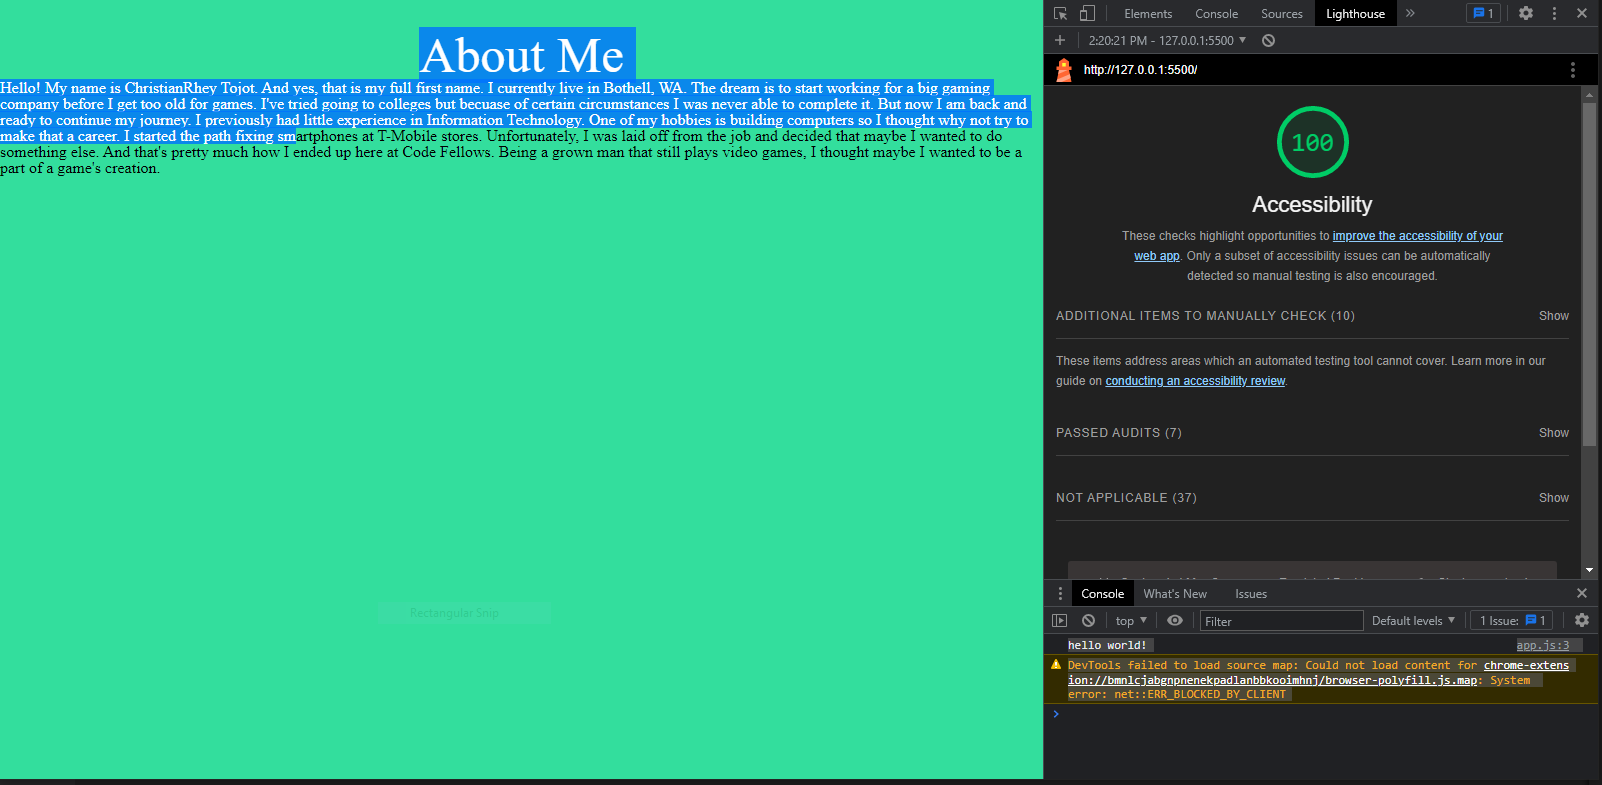
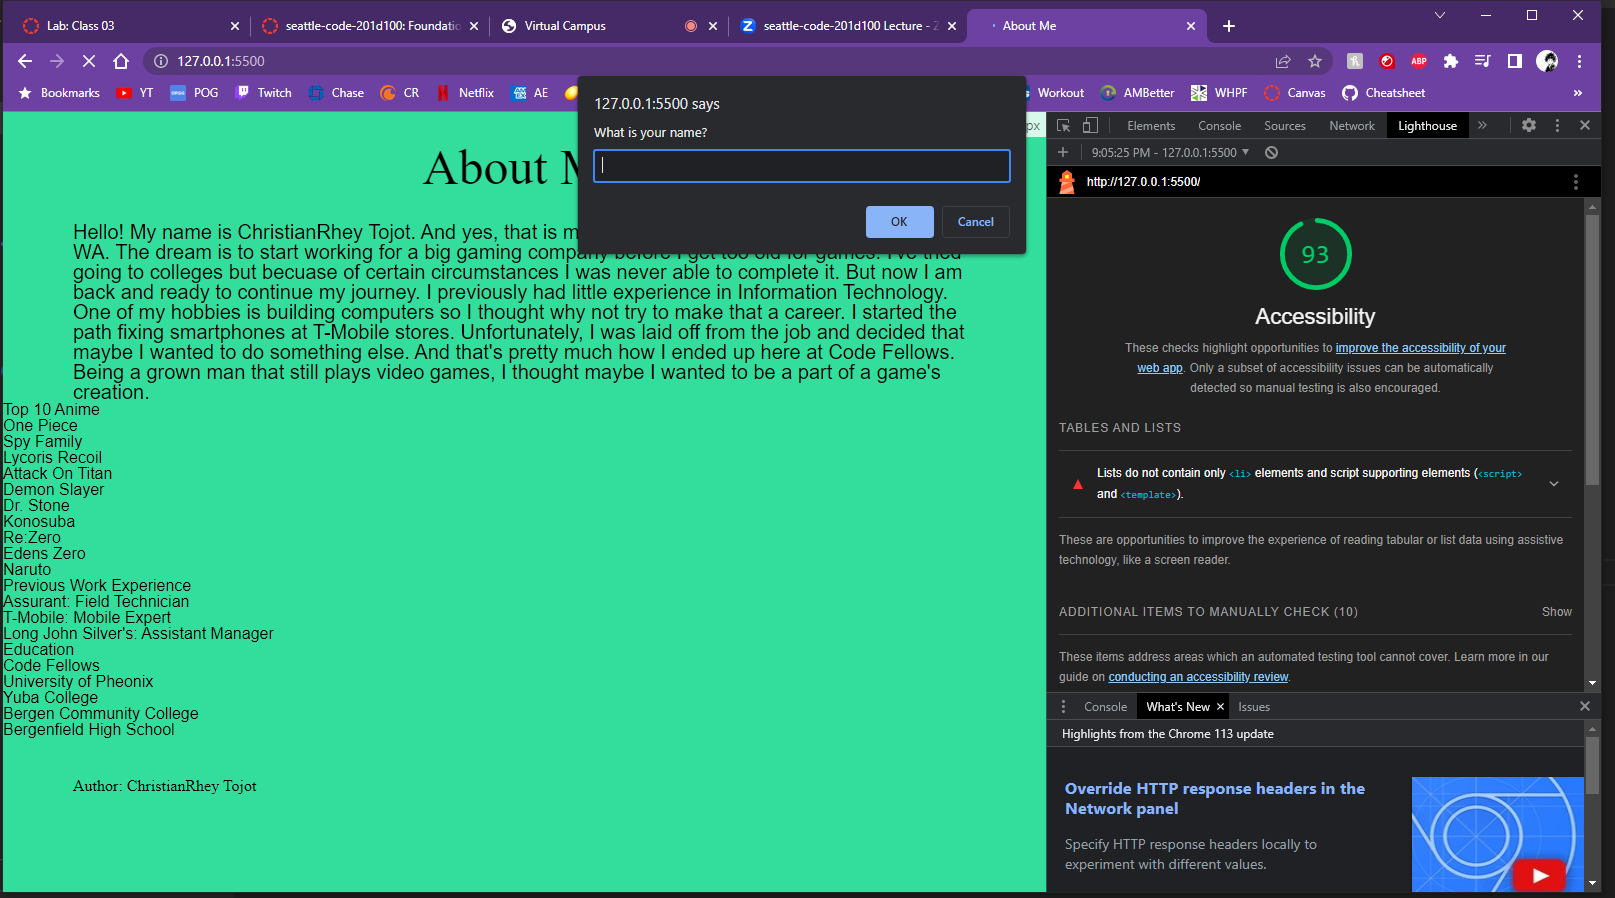
finished lab 3

diff --git a/js/app.js b/js/app.js
@@ -1,47 +1,113 @@
 'use strict';
 
-console.log ('hello world!');
+console.log('hello world!');
 
-let userName = prompt ('What is your name?');
+let userName = prompt('What is your name?');
 
-alert(`Welcome to my site ${userName}! I'm gonna ask you some random questions about me, please answer yes/no OR y/n`);
+alert(`Welcome to my site ${userName}! I'm gonna ask you some random questions about me, please answer yes/no or y/n`);
 
 let questionOne = prompt('Do you think I play video games?').toLowerCase();
 
-if(questionOne === 'y' || questionOne === 'yes'){
+if (questionOne === 'y' || questionOne === 'yes') {
   alert('Hey you got it!');
-} else if (questionOne === 'n' || questionOne === 'no'){
+} else if (questionOne === 'n' || questionOne === 'no') {
   alert('Sorry, that\'s wrong.');
+} else {
+  alert('Hmmm, Let\'s try that again. Answer with yes/no Or y/n');
 }
 
 let questionTwo = prompt('Do you think I have any pets?').toLowerCase();
 
-if (questionTwo === 'y' || questionTwo === 'yes'){
+if (questionTwo === 'y' || questionTwo === 'yes') {
   alert('Yes! I have two little furry babies, Chibi and Lulu. They\'re cats.');
-} else if (questionTwo === 'n' || questionTwo === 'no'){
+} else if (questionTwo === 'n' || questionTwo === 'no') {
   alert('Incorret! I have two cats, Chibi and Lulu.');
+} else {
+  alert('Hmmm, Let\'s try that again. Answer with yes/no Or y/n');
 }
 
 let questionThree = prompt('Am I an extrovert?').toLowerCase();
 
-if(questionThree === 'y' || questionThree === 'yes'){
+if (questionThree === 'y' || questionThree === 'yes') {
   alert('Ooo. Sorry to say, but I\'m an introvert!');
-} else if (questionThree === 'n' || questionThree === 'no'){
+} else if (questionThree === 'n' || questionThree === 'no') {
   alert('You guessed right!');
+} else {
+  alert('Hmmm, Let\'s try that again. Answer with yes/no Or y/n');
 }
 
 let questionFour = prompt('Am I Filipino?').toLowerCase();
 
-if(questionFour === 'y' || questionFour === 'yes'){
+if (questionFour === 'y' || questionFour === 'yes') {
   alert('That\'s right! I am truly Pinoy at heart.');
-} else if (questionFour === 'n' || questionFour === 'no'){
+} else if (questionFour === 'n' || questionFour === 'no') {
   alert('Ah man. You got it wrong!');
+} else {
+  alert('Hmmm, Let\'s try that again. Answer with yes/no Or y/n');
 }
 
 let questionFive = prompt('Do you think I\'m lazy?').toLowerCase();
 
-if(questionFive === 'y' || questionFive === 'yes'){
+if (questionFive === 'y' || questionFive === 'yes') {
   alert('Darn! That\'s wrong.');
-} else if (questionFive === 'n' || questionFive === 'no'){
+} else if (questionFive === 'n' || questionFive === 'no') {
   alert(`You guessed it! I'm proud to say that I'm a hardworker. Well I'm glad you're here ${userName} and I hope you enjoy your visit!`);
+} else {
+  alert('Hmmm, Let\'s try that again. Answer with yes/no Or y/n');
+}
+
+let myLuckyNum = 12;
+let correctNum = false;
+let questionAttempts = 4;
+let questionSix;
+
+while (correctNum === false && questionAttempts > 0) {
+  if (questionAttempts === 4) {
+    questionSix = parseInt(prompt('What\'s my lucky number?'));
+  }
+  else if (questionSix < myLuckyNum) {
+    questionSix = parseInt(prompt('That\'s a little too low. Try again. What\'s my lucky number?'));
+  }
+  else if (questionSix > myLuckyNum) {
+    questionSix = parseInt(prompt('Oops. Too high. Try again. What\'s my lucky number?'));
+  }
+  else if (questionSix === myLuckyNum) {
+    alert('Nice! You got it right!');
+    correctNum = true;
+  }
+  questionAttempts--;
+}
+
+if (correctNum === false) {
+  alert('Sorry. My Lucky number is 12!');
+}
+
+let arraySub = ['science', 'math'];
+let correctSub = false;
+let questionAttempts2 = 6;
+let questionSeven;
+let i = 0;
+
+while (correctSub === false && questionAttempts2 > 0) {
+  if (questionAttempts2 === 6) {
+    questionSeven = prompt('Sweet. Last one. What\'ss one of my best subject?').toLowerCase();
+  }
+  else {
+    questionSeven = prompt('Ooh. Not quite. Try agian. What\'s one of my best subject?').toLowerCase();
+  }
+  for(i = 0; i < arraySub.length; i++){
+    if (questionSeven === arraySub[i]){
+      alert('Nice! You got it.');
+      correctSub = true;
+      break;
+    }
+  }
+  if(correctSub){
+    break;
+  }
+  if(!correctSub && questionAttempts2 === 1) {
+    alert('Sorry. My best subject is Math and Science!');
+    break;
+  }
+  questionAttempts2--;
 }

diff --git a/index.html b/index.html
@@ -14,6 +14,34 @@
     </header>
     <main>
         <p>Hello! My name is ChristianRhey Tojot. And yes, that is my full first name. I currently live in Bothell, WA. The dream is to start working for a big gaming company before I get too old for games. I've tried going to colleges but becuase of certain circumstances I was never able to complete it. But now I am back and ready to continue my journey. I previously had little experience in Information Technology. One of my hobbies is building computers so I thought why not try to make that a career. I started the path fixing smartphones at T-Mobile stores. Unfortunately, I was laid off from the job and decided that maybe I wanted to do something else. And that's pretty much how I ended up here at Code Fellows. Being a grown man that still plays video games, I thought maybe I wanted to be a part of a game's creation.</p>
+        <ol>
+            <h2>Top 10 Anime</h2>
+            <li>One Piece</li>
+            <li>Spy Family</li>
+            <li>Lycoris Recoil</li>
+            <li>Attack On Titan</li>
+            <li>Demon Slayer</li>
+            <li>Dr. Stone</li>
+            <li>Konosuba</li>
+            <li>Re:Zero</li>
+            <li>Edens Zero</li>
+            <li>Naruto</li>
+
+        </ol>
+        <ul>
+            <h2>Previous Work Experience</h2>
+            <li>Assurant: Field Technician</li>
+            <li>T-Mobile: Mobile Expert</li>
+            <li>Long John Silver's: Assistant Manager</li>
+        </ul>
+        <ul>
+            <h2>Education</h2>
+            <li>Code Fellows</li>
+            <li>University of Pheonix</li>
+            <li>Yuba College</li>
+            <li>Bergen Community College</li>
+            <li>Bergenfield High School</li>
+        </ul>
     </main>
     <footer>
         Author: ChristianRhey Tojot
